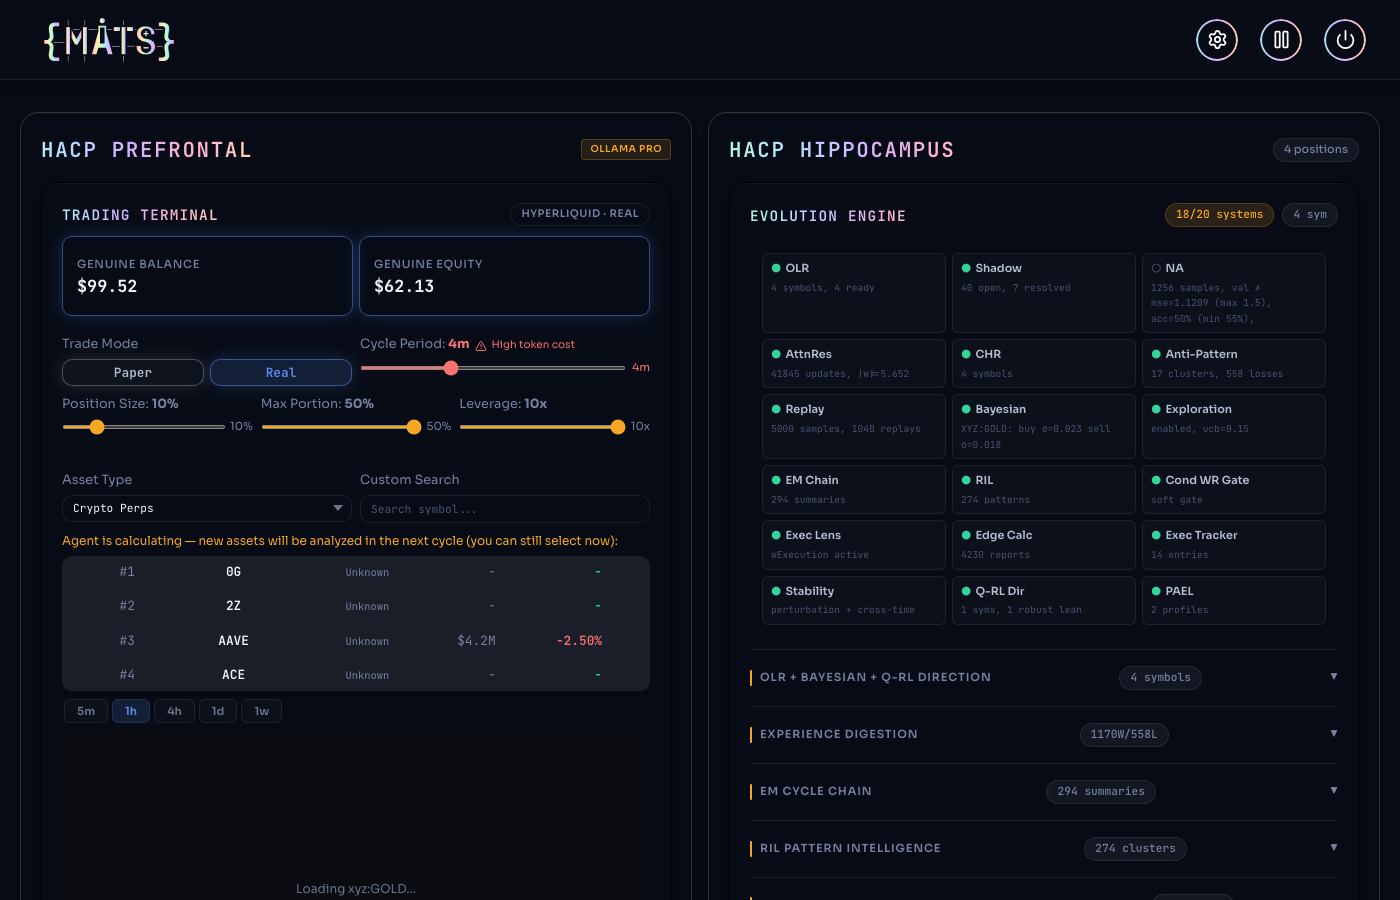
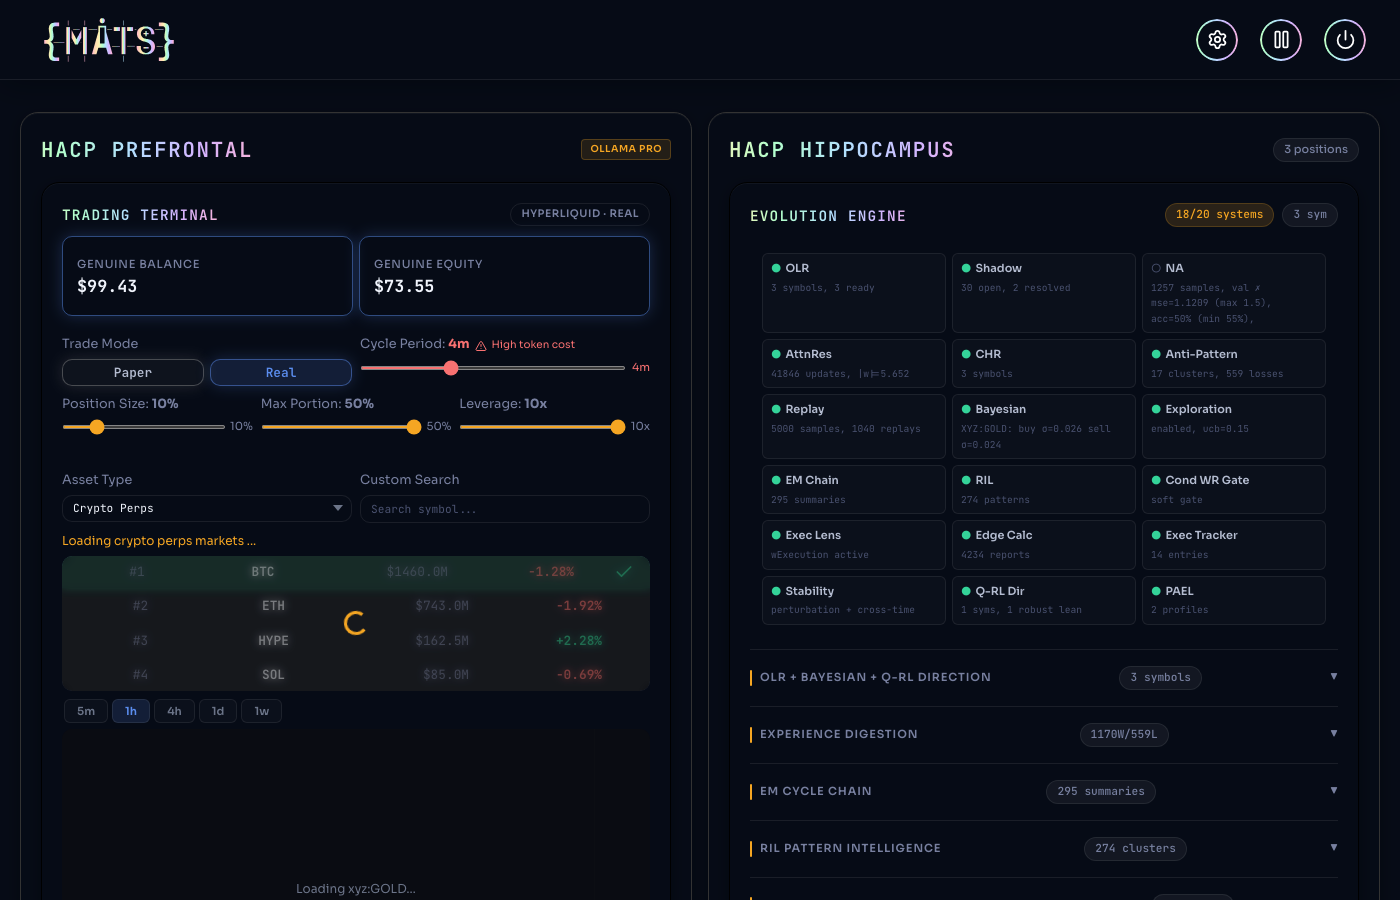
fix(pitch-deck): s1 背景重新截圖 + cover + 向上移 150px(header 完全移出 + 填滿)

diff --git a/investor/pitch-deck.html b/investor/pitch-deck.html
@@ -770,7 +770,7 @@
 
 <div class="slide active" id="s1">
   <!-- v2.0.868-fix(主神):靜態截圖背景(唔用 iframe——避免 hang)——opacity 0.3 + 滾動下方避開 header -->
-  <div style="position:absolute; top:0; left:0; width:100%; height:100%; background-image:url('ui-bg.png'); background-size:100% auto; background-position:center 40%; opacity:0.3; z-index:0; pointer-events:none;"></div>
+  <div style="position:absolute; top:0; left:0; width:100%; height:100%; background-image:url('ui-bg.png'); background-size:cover; background-position:center -150px; opacity:0.3; z-index:0; pointer-events:none;"></div>
   <span class="slide-tag">MATS · Multi-Agent Trading System</span>
   <h1 data-en="A trading cognitive engine<br><span class='accent'>evolves</span> from every trade"><span class="h2-icon"><svg viewBox="0 0 24 24"><path d="M9.937 15.5A2 2 0 0 0 8.5 14.063l-6.135-1.582a.5.5 0 0 1 0-.962L8.5 9.936A2 2 0 0 0 9.937 8.5l1.582-6.135a.5.5 0 0 1 .963 0L14.063 8.5A2 2 0 0 0 15.5 9.937l6.135 1.581a.5.5 0 0 1 0 .964L15.5 14.063a2 2 0 0 0-1.437 1.437l-1.582 6.135a.5.5 0 0 1-.963 0z"/><path d="M20 3v4"/><path d="M22 5h-4"/><path d="M4 17v2"/><path d="M5 18H3"/></svg></span>透過每一單交易<br><span class="accent">進化的</span>交易認知引擎</h1>
   
